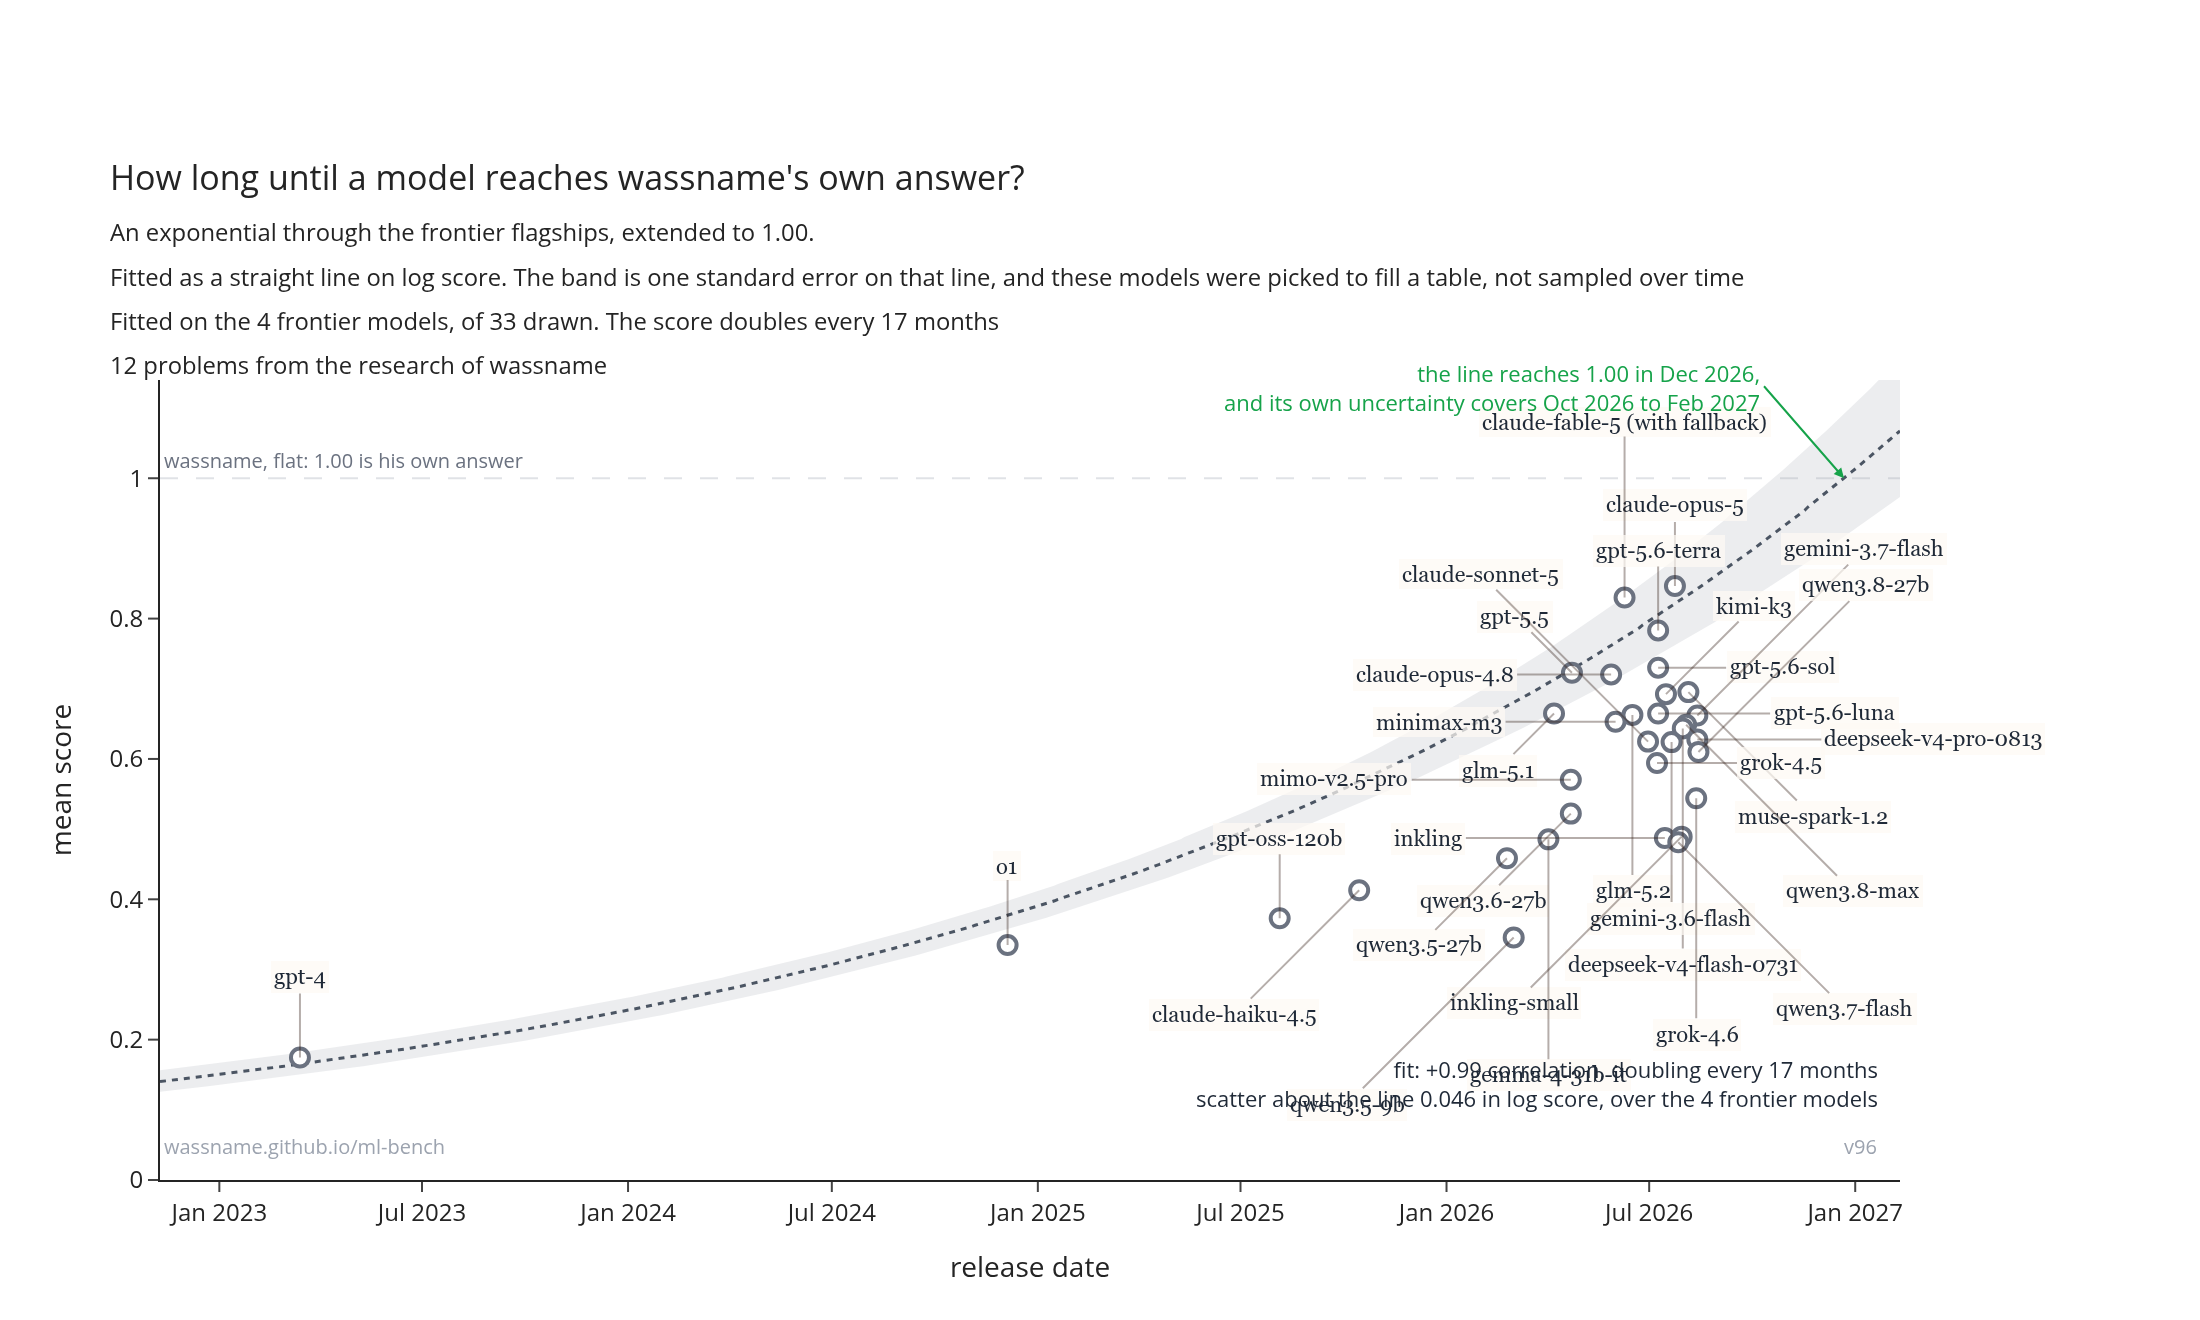
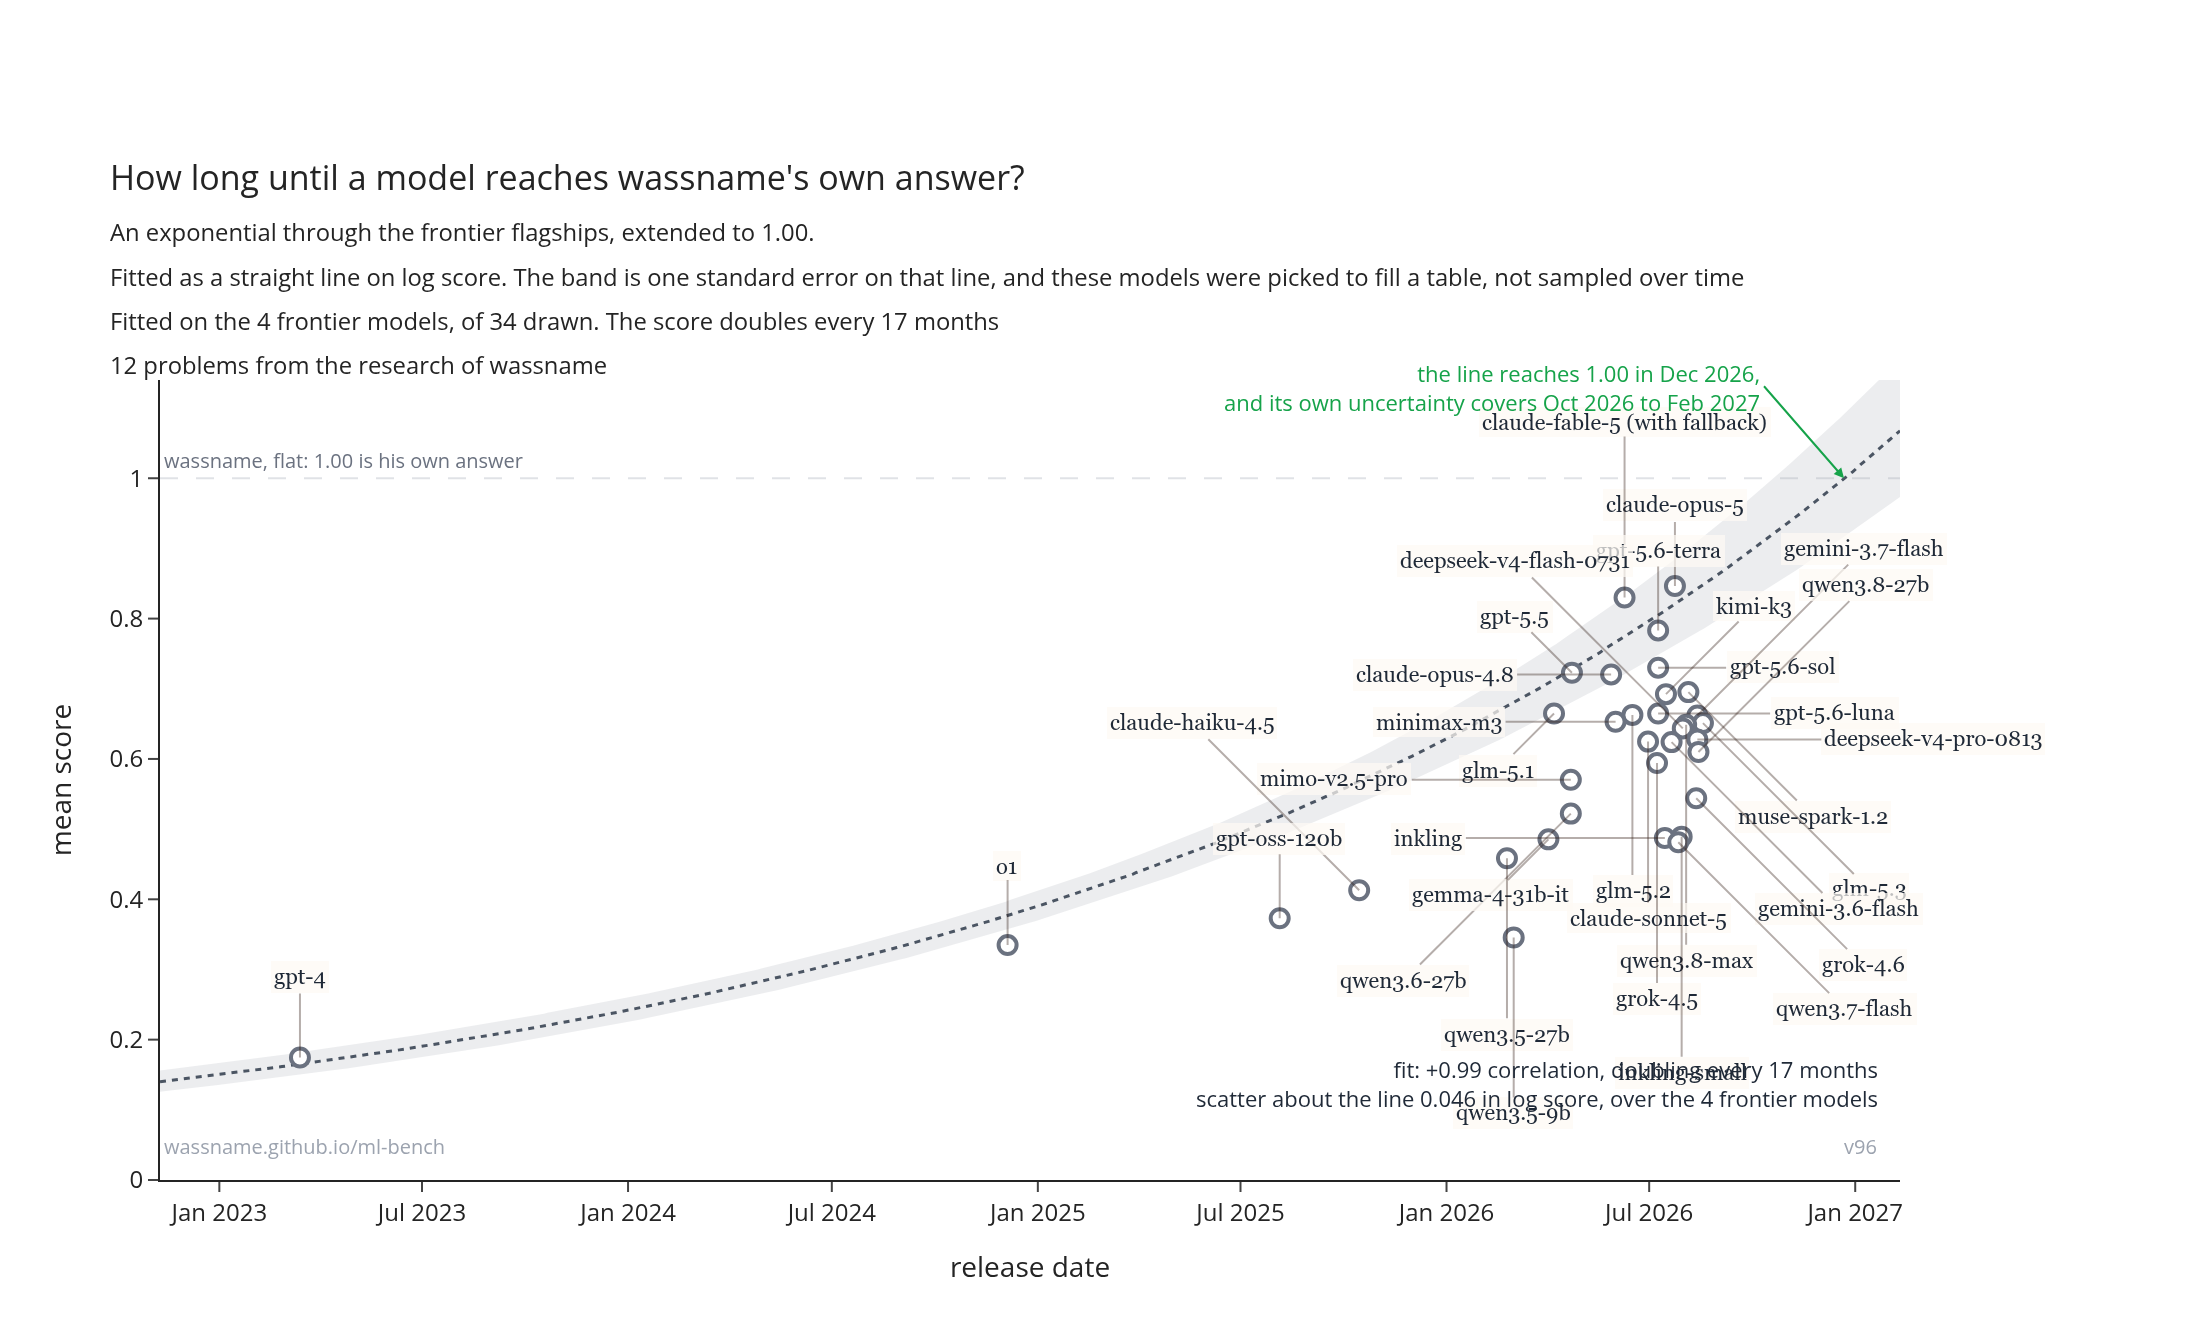
glm-5.3 joins the table at +0.65 over three draws

diff --git a/bench.py b/bench.py
@@ -185,7 +185,7 @@ MODELS = {
         "openrouter/xiaomi/mimo-v2.5-pro",
         "openrouter/deepseek/deepseek-v4-pro-0813",
         "openrouter/z-ai/glm-5.2",
-        # "openrouter/z-ai/glm-5.3",  # not on OpenRouter yet, uncomment next run
+        "openrouter/z-ai/glm-5.3",
         "openrouter/meta/muse-spark-1.2",
         "openrouter/google/gemini-3.6-flash",
         "openrouter/google/gemini-3.7-flash",
@@ -2042,6 +2042,8 @@ RELEASED = {
     "deepseek-v4-flash-0731": "2026-07-31", "qwen3.8-max": "2026-08-03",
     "muse-spark-1.2": "2026-08-05", "grok-4.6": "2026-08-12", "gemini-3.7-flash": "2026-08-13",
     "deepseek-v4-pro-0813": "2026-08-13", "qwen3.8-27b": "2026-08-14",
+    # OpenRouter's own created field, 1787086655.
+    "glm-5.3": "2026-08-18",
     "qwen3.5-27b": "2026-02-24", "glm-5.1": "2026-04-07", "qwen3.6-27b": "2026-04-22",
     "gpt-5.5": "2026-04-23", "claude-opus-4.8": "2026-05-28", "grok-4.5": "2026-07-08",
     # OpenAI's own announcement days, not AA, which lists neither.

diff --git a/results.md b/results.md
@@ -27,19 +27,20 @@ means a model has to work the answer out rather than recall it.
 | kimi-k3                        |             +0.69 | ±0.073 | 12/12                  |           3 |       $0.52 |            32.8 |                      21 |                       +0.48 |                            +0.32 |                        +0.85 |                +0.33 |             **+1.03** |                     +1.08 |                 +0.73 |                  +0.65 |                  +0.50 |                         +0.80 |                           +0.63 |             **+0.91** |
 | glm-5.1                        |             +0.66 | ±0.082 | 12/12                  |           1 |       $0.40 |             131 |                       5 |                   **+0.73** |                            +0.19 |                        +0.51 |                +0.11 |                 +0.89 |                 **+1.11** |                 +0.66 |              **+0.92** |                  +0.64 |                         +0.76 |                           +0.71 |                 +0.74 |
 | gpt-5.6-luna                   |             +0.66 | ±0.094 | 12/12                  |           3 |      $0.028 |            22.2 |                      30 |                       +0.65 |                            -0.06 |                        +0.89 |                +0.18 |                 +0.97 |                     +1.01 |                 +0.64 |                  +0.71 |                  +0.58 |                         +0.89 |                           +0.58 |             **+0.94** |
-| glm-5.2                        |             +0.66 | ±0.067 | 12/12                  |           3 |       $0.60 |             157 |                       4 |                       +0.65 |                            +0.50 |                        +0.52 |                +0.21 |                 +0.90 |                 **+1.09** |                 +0.63 |                  +0.67 |                  +0.58 |                         +0.75 |                           +0.52 |             **+0.93** |
+| glm-5.2                        |             +0.66 | ±0.067 | 12/12                  |           3 |       $0.48 |             157 |                       4 |                       +0.65 |                            +0.50 |                        +0.52 |                +0.21 |                 +0.90 |                     +1.09 |                 +0.63 |                  +0.67 |                  +0.58 |                         +0.75 |                           +0.52 |             **+0.93** |
 | gemini-3.7-flash               |             +0.66 | ±0.071 | 12/12                  |           3 |      $0.035 |            17.0 |                      39 |                       +0.64 |                            +0.40 |                        +0.76 |                +0.17 |                 +0.91 |                     +1.06 |                 +0.67 |                  +0.64 |                  +0.53 |                         +0.69 |                           +0.53 |             **+0.93** |
 | minimax-m3                     |             +0.65 | ±0.078 | 12/12                  |           3 |       $0.22 |             182 |                       4 |                   **+0.72** |                            +0.22 |                        +0.58 |                +0.15 |                 +0.97 |                     +1.05 |                 +0.69 |                  +0.60 |                  +0.50 |                         +0.76 |                       **+0.83** |                 +0.77 |
+| glm-5.3                        |             +0.65 | ±0.072 | 12/12                  |           3 |       $0.10 |            23.2 |                      28 |                       +0.59 |                            +0.27 |                        +0.58 |                +0.19 |                 +0.95 |                     +1.05 |                 +0.63 |                  +0.71 |                  +0.75 |                         +0.72 |                           +0.52 |                 +0.85 |
 | qwen3.8-max                    |             +0.65 | ±0.071 | 12/12                  |           3 |       $0.51 |            82.5 |                       8 |                   **+0.72** |                            +0.24 |                        +0.68 |                +0.19 |                 +0.90 |                     +1.01 |                 +0.64 |                  +0.80 |                  +0.57 |                         +0.74 |                           +0.48 |                 +0.80 |
 | deepseek-v4-flash-0731         |             +0.64 | ±0.070 | 12/12                  |           3 |      $0.046 |             163 |                       4 |                       +0.66 |                            +0.11 |                        +0.70 |                +0.31 |                 +0.90 |                     +1.02 |                 +0.65 |                  +0.75 |                  +0.67 |                         +0.71 |                           +0.53 |                 +0.73 |
 | deepseek-v4-pro-0813           |             +0.63 | ±0.065 | 12/12                  |           3 |       $0.32 |             157 |                       4 |                       +0.63 |                            +0.41 |                        +0.68 |                +0.17 |                 +0.95 |                     +1.05 |                 +0.58 |                  +0.66 |                  +0.55 |                         +0.62 |                           +0.57 |                 +0.67 |
 | claude-sonnet-5                |             +0.62 | ±0.071 | 12/12                  |           3 |       $0.30 |            27.4 |                      23 |                   **+0.70** |                            +0.23 |                        +0.73 |                +0.13 |                 +0.93 |                     +1.01 |                 +0.64 |                  +0.58 |                  +0.58 |                         +0.67 |                           +0.66 |                 +0.65 |
 | gemini-3.6-flash               |             +0.62 | ±0.059 | 12/12                  |           3 |      $0.077 |            18.9 |                      33 |                       +0.65 |                            +0.24 |                        +0.55 |                +0.48 |                 +0.81 |                     +1.02 |                 +0.65 |                  +0.49 |                  +0.51 |                         +0.66 |                           +0.56 |                 +0.86 |
-| qwen3.8-27b                    |             +0.61 | ±0.073 | 12/12                  |           3 |       $0.32 |            99.3 |                       6 |                   **+0.71** |                            +0.15 |                        +0.60 |                +0.24 |                 +0.88 |                 **+1.09** |                 +0.63 |                  +0.57 |                  +0.46 |                         +0.68 |                           +0.59 |                 +0.70 |
+| qwen3.8-27b                    |             +0.61 | ±0.073 | 12/12                  |           3 |       $0.32 |            99.3 |                       6 |                   **+0.71** |                            +0.15 |                        +0.60 |                +0.24 |                 +0.88 |                     +1.09 |                 +0.63 |                  +0.57 |                  +0.46 |                         +0.68 |                           +0.59 |                 +0.70 |
 | grok-4.5                       |             +0.59 | ±0.092 | 12/12                  |           1 |       $0.12 |            17.5 |                      34 |                   **+0.72** |                            -0.05 |                        +0.66 |                +0.18 |                 +0.82 |                     +1.06 |                 +0.46 |                  +0.54 |                  +0.89 |                         +0.75 |                           +0.31 |                 +0.80 |
 | mimo-v2.5-pro                  |             +0.57 | ±0.076 | 12/12                  |           2 |       $0.13 |             149 |                       4 |                   **+0.70** |                            +0.01 |                        +0.48 |                +0.34 |                 +0.87 |                     +0.96 |                 +0.58 |                  +0.71 |                  +0.45 |                         +0.61 |                           +0.37 |                 +0.77 |
 | grok-4.6                       |             +0.54 | ±0.075 | 12/12                  |           3 |       $0.12 |            17.3 |                      31 |                       +0.63 |                            -0.02 |                        +0.46 |                +0.13 |                 +0.78 |                     +0.87 |                 +0.59 |                  +0.60 |                  +0.62 |                         +0.64 |                           +0.48 |                 +0.76 |
-| qwen3.6-27b                    |             +0.52 | ±0.075 | 12/12                  |           1 |       $0.24 |             101 |                       5 |                       +0.30 |                            +0.00 |                        +0.38 |                +0.28 |             **+0.99** |                     +0.76 |                 +0.65 |                  +0.45 |                  +0.66 |                         +0.67 |                           +0.56 |                 +0.57 |
+| qwen3.6-27b                    |             +0.52 | ±0.075 | 12/12                  |           1 |       $0.20 |             101 |                       5 |                       +0.30 |                            +0.00 |                        +0.38 |                +0.28 |             **+0.99** |                     +0.76 |                 +0.65 |                  +0.45 |                  +0.66 |                         +0.67 |                           +0.56 |                 +0.57 |
 | inkling-small                  |             +0.49 | ±0.076 | 12/12                  |           3 |      $0.016 |            10.5 |                  **47** |                       +0.36 |                            -0.03 |                        +0.40 |                +0.07 |                 +0.83 |                     +0.86 |                 +0.63 |                  +0.53 |                  +0.53 |                         +0.59 |                           +0.53 |                 +0.59 |
 | inkling                        |             +0.49 | ±0.079 | 12/12                  |           3 |      $0.056 |            12.1 |                      40 |                       +0.41 |                            -0.08 |                        +0.43 |                +0.11 |                 +0.80 |                     +0.90 |                 +0.61 |                  +0.39 |                  +0.64 |                         +0.65 |                           +0.49 |                 +0.49 |
 | gemma-4-31b-it                 |             +0.49 | ±0.073 | 12/12                  |           3 |      $0.016 |            45.9 |                      11 |                       +0.56 |                            +0.10 |                        +0.45 |                +0.16 |                 +0.85 |                     +0.96 |                 +0.58 |                  +0.41 |                  +0.54 |                         +0.49 |                           +0.21 |                 +0.52 |
@@ -94,8 +95,8 @@ be one).
 
 | judge                           |   judgments |   off-topic |   gold |    gap |   leniency |
 |:--------------------------------|------------:|------------:|-------:|-------:|-----------:|
-| openai/gpt-oss-120b             |         917 |      -0.016 | +0.996 | +1.012 |     +0.074 |
-| qwen/qwen3.7-flash              |         929 |      -0.004 | +0.992 | +0.996 |     -0.004 |
-| google/gemma-4-31b-it           |         989 |      +0.010 | +0.990 | +0.980 |     -0.006 |
-| thinkingmachines/inkling-small  |        1025 |      -0.020 | +0.988 | +1.008 |     -0.011 |
-| deepseek/deepseek-v4-flash-0731 |         942 |      -0.008 | +0.997 | +1.005 |     -0.053 |
+| openai/gpt-oss-120b             |         953 |      -0.016 | +0.996 | +1.012 |     +0.075 |
+| qwen/qwen3.7-flash              |         965 |      -0.004 | +0.992 | +0.996 |     -0.004 |
+| google/gemma-4-31b-it           |        1025 |      +0.010 | +0.990 | +0.980 |     -0.005 |
+| thinkingmachines/inkling-small  |        1061 |      -0.020 | +0.988 | +1.008 |     -0.012 |
+| deepseek/deepseek-v4-flash-0731 |         977 |      -0.008 | +0.997 | +1.005 |     -0.053 |
